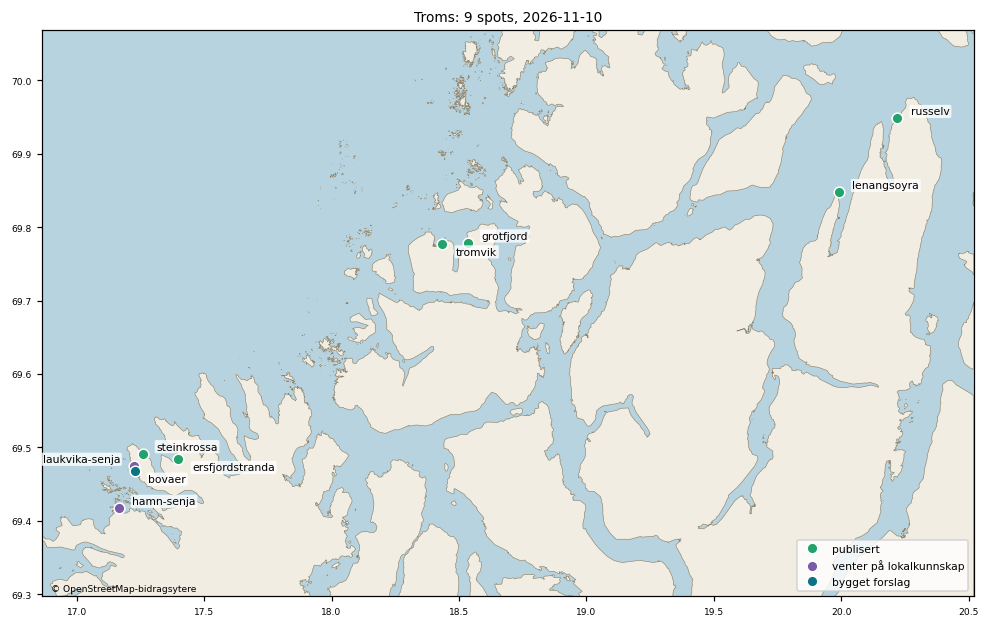
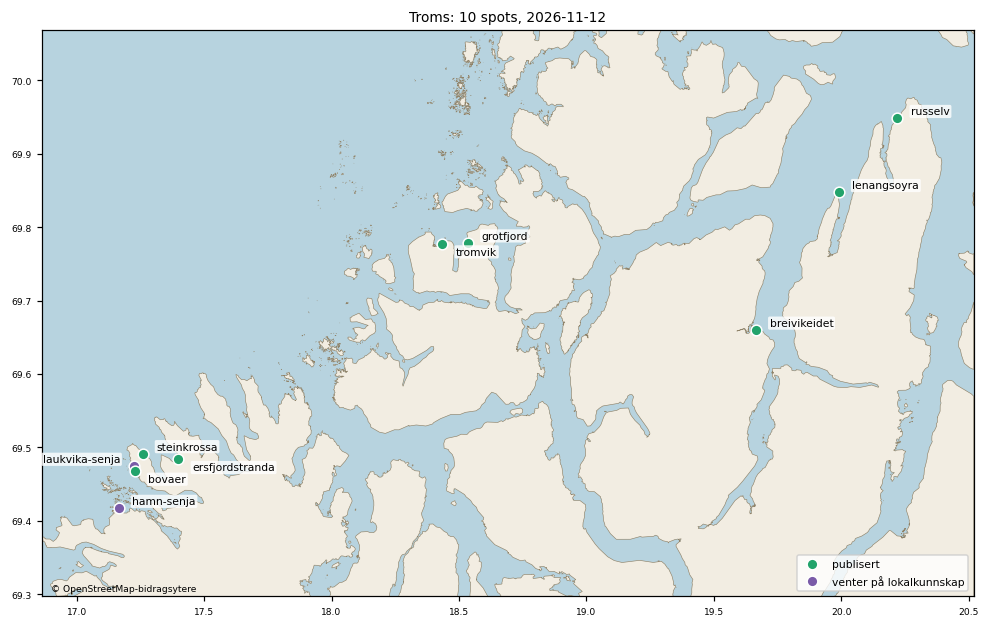
T1 Troms: breivikeidet inn i spots.json som foreløpig og ubekreftet (Theodors ja 12.11.2026)
- BarentsWatch-snittet 12.11 kl. 18:27Z: regelen fra 15.10 fant ikke
  noe punkt (krappsjø fra øst, Tp 2-3 s, i 17 av 19 timer). Punktet er
  satt til første punkt med minst 8 m dyp og data: 100 m ut (8,8 m),
  lavere sikkerhet.
- tools/godkjenn_spot.py breivikeidet: status forelopig, 0 restriksjoner
  (Sandbukta naturreservat har ikke ferdsels- eller surfeforbud).
  «Ubekreftet» står i _ubekreftet. Havpunktet er fabrikkens, uten
  offshore_longrange. Ingen exposure_override.
- Gjennomgangspakka for Troms er laget på nytt, med spotansvarligs linje
  og fire spørsmål til Theodor i troms.notater.md.

Fysikk-kontrolløren: spør Theodor (havpunkt og hopp ved overgangen
til reservesonen). Tekstfeilen den fant er rettet. Alle 16 tester og
kontrastsjekken er grønne.

diff --git a/data/kandidater/bygget/troms.md b/data/kandidater/bygget/troms.md
@@ -1,6 +1,6 @@
-# Gjennomgangspakke: Troms (9 spots)
+# Gjennomgangspakke: Troms (10 spots)
 
-Laget 2026-11-10 av tools/region_pakke.py fra spots.json (gjelder der spoten ligger inne) og fabrikkens forslag (data/kandidater/bygget/<id>.json). 6 publisert, 1 bygget forslag, 2 venter på lokalkunnskap.
+Laget 2026-11-12 av tools/region_pakke.py fra spots.json (gjelder der spoten ligger inne) og fabrikkens forslag (data/kandidater/bygget/<id>.json). 8 publisert, 2 venter på lokalkunnskap.
 
 Vindu: fri linje 150 km over GSHHS f (300 m kysttoleranse). Facing: strandnormal ±150 m langs kysten. Offshore-vind: motsatt av facing ±45° når ikke annet står. BarentsWatch-punkt: snittregelen 15.10 (første punkt utover med minst 8 m dyp og flat Hs). Tidevann: Kartverkets referansested for posisjonen. Vern: Naturbase innen 2 km, målt fra spotens posisjon der oppslaget finnes (ellers fra listepinnen, og da står det), forskriften lest på Lovdata. Sikkerhet: A = navn, strandtype, synlig bølge/formasjon og retning stemmer; B = to av fire; C = resten (bygges ikke).
 
@@ -30,6 +30,38 @@ Snittet ble hentet 10.11 kl. 11:35Z (0 til 3 km langs facing, 18 tidspunkter, hv
 - **Lavere sikkerhet:** 400 m ligger i en lomme i EMODnet (5,3 m innenfor, 7,7 m utenfor) og oppfyller regelen fra 15.10 i 2 av 9 tidspunkter med svell i vinduet (1 500 m i 4). Punktet er retningsavhengig: Hs ved 400 og 600 m er like (under 10 % forskjell) bare når Hs ved punktet er minst ca. 0,5 m, det vil si i 3 av de 9 tidspunktene. Når svellet dreier mot nordvest (fra 11.11 kl. 12Z) faller Hs ved 400 m til 0,06–0,42 m, retningen går til 321–340° (31–50° fra facing), og 600 m har 1,6–3 ganger mer.
 - Høydene [0,8, 2,0] og maks 3,5 er fabrikkens standard for strand, ukalibrert. Offshore-vinden er standard (motsatt av facing ±45°), ubekreftet.
 
+## Breivikeidet 12.11.2026 (egen liten PR, Theodors ja til å bygge den)
+
+Ny spot fra Theodor (ikke i lista 15.10): Sandbukta ved Breivikeidet, Tromsø kommune, innerst i Ullsfjorden. Theodor har bare hørt at den er bra og har ikke surfet der. Kilden er ikke navngitt, så spoten er **ubekreftet** (feltet `_ubekreftet` i spots.json) og ligger inne som `forelopig`. Spotansvarligs svar står i `troms-gjennomgang.csv` (rett: BarentsWatch-punktet).
+
+- **Posisjon:** 69.659992, 19.664974. Det er 235 m fra Theodors pinne, midt på den NNØ-vendte delen av en ca. 1,1 km lang sand- og grusstrand, 100 m fra OSM-kystlinja. Ingen bølger er synlige i flyfotoet. Sikkerhet B.
+- **Facing og vindu:** facing 17,3° (OSM 13–28°, flyfoto 14–18°). Vinduet er 20–25° (6°), det eneste med fri linje til åpent hav gjennom gapet mellom Vanna og Arnøya. 10–19° treffer Reinøya/Vanna 31–51 km ut, og 26–29° treffer Arnøya 55–64 km ut.
+- **Offshorevind:** [152, 242], standard og ubekreftet.
+- **Vern:** Sandbukta naturreservat dekker stranda og sjøen innerst i bukta. Forskriften har ikke ferdsels- eller surfeforbud, bare forbud mot motorferdsel på land.
+
+### BarentsWatch-snittet
+
+Snittet ble hentet 12.11 kl. 18:27Z (19 tidspunkter, hver 3. time fra 12.11 kl. 12Z til 14.11 kl. 18Z, `data/bw_point_search/result_2026-11-12T1827_kandidater.json`). BarentsWatch har data helt inn i bukta.
+
+| Avstand ut | EMODnet-dybde | Hs (median, min–maks) | Retning (median) |
+|---|---|---|---|
+| 0 m | 2,0 m | 0,14 m (0,07–0,22) | 81° |
+| 100 m | 8,8 m | 0,19 m (0,09–0,28) | 88° |
+| 300 m | 30,8 m | 0,24 m (0,13–0,30) | 95° |
+| 800–1 500 m | 55–79 m | 0,29–0,30 m (0,19–0,35) | 103–104° |
+
+- Svellet ute var 0,8–1,4 m fra 11–27°, men BarentsWatch viste kort krappsjø fra øst (Tp 2–3 s) i 17 av 19 timer.
+- I de to roligste timene (12.11 kl. 18Z og 13.11 kl. 00Z) var det 0,09 m fra 9° med Tp 7,5 s ved 100 m. Det er ca. 7 % av svellet ute, som da kom fra 12–18°, altså like utenfor vinduet.
+- Regelen fra 15.10 fant derfor ikke noe punkt. Velgeren prøver bare timer der svellet ute kommer fra innenfor vinduet (20–25°), og det gjaldt 12 av 19 timer. I alle de 12 var retningen ved 100 m 69–88°, altså 46–66° fra svellet ute. De to svelltimene (svell ute fra 12–18°) ble ikke prøvd.
+- Punktet ble satt til første punkt med minst 8 m dyp og data: **100 m ut (8,8 m)**, med lavere sikkerhet. Hs øker utover til ca. 800 m. Det er le bak Breivikneset for østlig krappsjø, ikke en brytesone (8,8 m er dypt vann for 3 s-bølger).
+
+### Spørsmål til Theodor
+
+1. **Havpunkt og langtidsdager:** fabrikkens havpunkt (70.3284, 20.4562) ligger 1,0 km fra Lenangsøyras, i den samme landmaskerte GFS-cellen, og spoten har ingen `offshore_longrange`. Anbefaling: bruk Lenangsøyras havpunkt og `offshore_longrange` 70.5/20.5. Det gir samme svelldata og ingen nye kall.
+2. **Vinduet er 6°, ikke 15–30°:** nye spots har ingen geometrisk grunnlinje (`data/exposure_baseline.json`), så reserven bruker vindu og skyggekurve. Hvis grunnlinjen lages senere, gir den 0,38–0,48 over 10–30°, fordi øyene regnes som smale. Anbefaling: godta 20–25° som foreløpig uten `exposure_override`. Første observasjon og BarentsWatch blir fasiten.
+3. **Vindsjø i fjorden:** med vind fra NNØ er det 31–65 km fetch, og det gir trolig 1–1,5 m med ca. 5 s, onshore. BarentsWatch tar med lokal vindsjø, men surfehøyden bruker GFS-perioden. Anbefaling: lag et forslag med før/etter som merker timer med kort periode hos BarentsWatch som vindsjø. Ingen endring nå.
+4. **Hopp ved overgangen til reservesonen (dag 4 til ca. 8):** reserven regner transfer 0,6 × eksponering 0,67–0,85, det vil si 0,40–0,51 av svellet ute. BarentsWatch viste høyst ca. 15 % (svell i vinduet) og 7 % (svell fra 12–18°). Uten vind gir svell ute 1,0 m fra 25° (9 s) 1 stjerne, 1,4 m fra 21° (12 s) 2 stjerner og 2,0 m fra 22° (12 s) 3 stjerner. Med BarentsWatch er det 0 stjerner. Valg: (i) `exposure_override`-tak på ca. 0,2–0,25, (ii) egen transfer 0,15–0,2, eller (iii) la kalibreringen lære. Ulempen med (iii) er at parene blir krappsjø fra øst. Anbefaling: (i) som foreløpig tak til det finnes en observasjon. Grunnlaget er bare én kjøring på 19 timer.
+
 ## Hva som skal til
 
 | Spot | Hva som mangler | Hvem |
@@ -56,7 +88,8 @@ Snittet ble hentet 10.11 kl. 11:35Z (0 til 3 km langs facing, 18 tidspunkter, hv
 
 | id | Navn | Region | Status | Sikkerhet | facing | Vindu | Offshore-vind | BarentsWatch-punkt |
 |---|---|---|---|---|---|---|---|---|
-| bovaer | Bøvær | Troms | bygget forslag | B | 289.8° | 251–326° | 65–155° | 69.469189, 17.217652 (400 m ut i retning 290°, 8.5 m dyp) |
+| bovaer | Bøvær | Troms | publisert | B | 289.8° | 251–326° | 65–155° | 69.469189, 17.217652 (400 m ut i retning 290°, 8.5 m dyp) |
+| breivikeidet | Breivikeidet | Troms | publisert | B | 17.3° | 20–25° | 152–242° | 69.660855, 19.665743 (100 m ut i retning 17°, 8.8 m dyp) |
 | ersfjordstranda | Ersfjordstranda | Troms | publisert | ikke sjekket | 315° | 294–320° | 90–180° | 69.485517, 17.394874 (251 m ut i retning 315°, dybde ukjent) |
 | grotfjord | Grøtfjord | Troms | publisert | ikke sjekket | 295° | 286–310° | 76–166° | 69.779773, 18.529373 (250 m ut i retning 295°, dybde ukjent) |
 | hamn-senja | Hamn (Senja) | Troms | venter på lokalkunnskap | C (forslag, ikke godkjent) | – | – | – | – |
@@ -77,14 +110,14 @@ Snittet ble hentet 10.11 kl. 11:35Z (0 til 3 km langs facing, 18 tidspunkter, hv
 
 | | Spots | Open-Meteo vektet per kjøring | per døgn (grense 10 000) | verste time (5 000) | verste minutt (600) | BarentsWatch per kjøring / døgn | met.no per kjøring | Kartverket per kjøring |
 |---|---|---|---|---|---|---|---|---|
-| i dag (publiserte) | 22 | 78 | 622 (6%) | 78 (2%) | 78 (13%) | 39 / 312 | 66 | 22 |
-| med alle 1 ventende i regionen slått på | 23 | 81 | 649 (6%) | 81 (2%) | 81 (14%) | 40 / 320 | 69 | 23 |
+| i dag (publiserte) | 27 | 95 | 759 (8%) | 95 (2%) | 95 (16%) | 44 / 352 | 81 | 27 |
+| med alle 0 ventende i regionen slått på | 27 | 95 | 759 (8%) | 95 (2%) | 95 (16%) | 44 / 352 | 81 | 27 |
 
 Open-Meteo: vekt 1,14 per punkt (16 dager), to bølgemodeller per havpunkt og ett vindpunkt per spot, 8 kjøringer per døgn; verste minutt regner alle kall i en kjøring i samme minutt. Testen fetcher/test_kallregnskap.py holder hver grense under 50 %.
 
 ## Spotene
 
-### Bøvær (`bovaer`) - bygget forslag
+### Bøvær (`bovaer`) - publisert
 
 | | |
 |---|---|
@@ -102,6 +135,25 @@ Open-Meteo: vekt 1,14 per punkt (16 dager), to bølgemodeller per havpunkt og et
 | Usikkert | offshore-vind: standard, ubekreftet (motsatt av facing ±45°)<br>barentswatch_point rettet: 400 m ut (spotansvarlig 10.11.2026: stranda ligger i le av skjæret 800-900 m ut, og regelen fra 15.10 valgte 1500 m utenfor skjæret; lavere sikkerhet) |
 
 ![bovaer](bovaer.png)
+
+### Breivikeidet (`breivikeidet`) - publisert
+
+| | |
+|---|---|
+| Posisjon | 69.659992, 19.664974 - godkjent forslag (flyfoto), spotansvarlig (agent, Theodor 10.11.2026), 2026-11-12. 235 m fra listepinnen. Sandbukta: ca. 1,1 km sand-/grusstrand innerst i bukta på vestsida av Ullsfjorden (Breivikelva-deltaet bak). Den rette delen av stranda vender mot NNØ (OSM-kystnormal 13-28°). Satt midt på den delen, ca. 100 m ut fra OSM-kystlinja (ca. 70 m fra vannkanten i flyfotoet). Ingen bølger synlige i flyfotoet; hovedtoppen er ukjent. Pinnen sto ca. 260 m ut i bukta. |
+| Facing | 17.3° |
+| Svellvindu | 20–25° |
+| Offshore-vind | 152–242° |
+| Havpunkt | 70.3284, 20.4562 (80 km ut i retning 22°) |
+| BarentsWatch-punkt | 69.660855, 19.665743 (100 m ut i retning 17°, 8.8 m dyp)<br>Snitt langs facing (data/bw_point_search/result_2026-11-12T1827_kandidater.json), første punkt med dybde ≥ 8 m og BarentsWatch-data (retting fra gjennomgangen): snitt 100m@17.3, 100 m ut, dybde 8,8 m. Lavere sikkerhet (spotansvarlig 12.11.2026): 15.10-regelen fant ikke noe punkt: velgeren prøver bare timer med svell ute fra innenfor vinduet (12 av 19), og i alle de 12 var retningen ved 100 m 69-88° (46-66° fra svellet ute). BarentsWatch viste kort krapp sjø fra øst i 17 av 19 timer (100 m: 0,12-0,28 m, Tp 2,0-2,9 s) mens svellet ute var 0,8-1,4 m fra 11-27°. I de to roligste timene (12.11 kl. 18Z og 13.11 kl. 00Z) sto det igjen 0,09 m fra 9° med Tp 7,5 s ved 100 m - ca. 7 % av svellet ute (1,2-1,26 m fra 12-18°, like utenfor vinduet). Hs øker fra 0,19 m (100 m) til 0,30 m (800 m) og flater ut der; økningen er le bak Breivikneset for østlig krappsjø, ikke brytesone (8,8 m er dypt vann for 3 s bølger). 100 m er derfor beholdt som punktet som best ligner stranda. |
+| Eksponering | vindu 5° bredt, facing 5° fra midten; ingen geometrisk grunnlinje ennå - henteren bruker vindu og skyggekurve som reserve |
+| Tidevannssted | Hammerfest (-50 min), faktor 1.02 |
+| Høyder | ideal [0.8, 2.0], maks 3.5 |
+| Vern/forbud | Sandbukta naturreservat, listepinnen ligger inne i området: bare motorferdsel på land forbudt; både Theodors pinne og posisjonen ligger inne i reservatet (sjøarealet innerst i Sandbukta er med). Lagt inn for hånd 12.11.2026 (Naturbase-oppslag fra posisjonen, ikke fra tools/kandidat_vern.py). |
+| Sikkerhet | B |
+| Usikkert | facing 17.3° ligger 3° utenfor eget svellvindu (20–25°)<br>offshore-vind: standard, ubekreftet (motsatt av facing ±45°)<br>barentswatch_point rettet: første punkt med dybde ≥ 8 m og BarentsWatch-data (100 m ut), regelen fant ingen punkt; lavere sikkerhet (spotansvarlig 12.11.2026) |
+
+![breivikeidet](breivikeidet.png)
 
 ### Ersfjordstranda (`ersfjordstranda`) - publisert
 

diff --git a/data/kandidater/bygget/troms.notater.md b/data/kandidater/bygget/troms.notater.md
@@ -22,6 +22,38 @@ Snittet ble hentet 10.11 kl. 11:35Z (0 til 3 km langs facing, 18 tidspunkter, hv
 - **Lavere sikkerhet:** 400 m ligger i en lomme i EMODnet (5,3 m innenfor, 7,7 m utenfor) og oppfyller regelen fra 15.10 i 2 av 9 tidspunkter med svell i vinduet (1 500 m i 4). Punktet er retningsavhengig: Hs ved 400 og 600 m er like (under 10 % forskjell) bare når Hs ved punktet er minst ca. 0,5 m, det vil si i 3 av de 9 tidspunktene. Når svellet dreier mot nordvest (fra 11.11 kl. 12Z) faller Hs ved 400 m til 0,06–0,42 m, retningen går til 321–340° (31–50° fra facing), og 600 m har 1,6–3 ganger mer.
 - Høydene [0,8, 2,0] og maks 3,5 er fabrikkens standard for strand, ukalibrert. Offshore-vinden er standard (motsatt av facing ±45°), ubekreftet.
 
+## Breivikeidet 12.11.2026 (egen liten PR, Theodors ja til å bygge den)
+
+Ny spot fra Theodor (ikke i lista 15.10): Sandbukta ved Breivikeidet, Tromsø kommune, innerst i Ullsfjorden. Theodor har bare hørt at den er bra og har ikke surfet der. Kilden er ikke navngitt, så spoten er **ubekreftet** (feltet `_ubekreftet` i spots.json) og ligger inne som `forelopig`. Spotansvarligs svar står i `troms-gjennomgang.csv` (rett: BarentsWatch-punktet).
+
+- **Posisjon:** 69.659992, 19.664974. Det er 235 m fra Theodors pinne, midt på den NNØ-vendte delen av en ca. 1,1 km lang sand- og grusstrand, 100 m fra OSM-kystlinja. Ingen bølger er synlige i flyfotoet. Sikkerhet B.
+- **Facing og vindu:** facing 17,3° (OSM 13–28°, flyfoto 14–18°). Vinduet er 20–25° (6°), det eneste med fri linje til åpent hav gjennom gapet mellom Vanna og Arnøya. 10–19° treffer Reinøya/Vanna 31–51 km ut, og 26–29° treffer Arnøya 55–64 km ut.
+- **Offshorevind:** [152, 242], standard og ubekreftet.
+- **Vern:** Sandbukta naturreservat dekker stranda og sjøen innerst i bukta. Forskriften har ikke ferdsels- eller surfeforbud, bare forbud mot motorferdsel på land.
+
+### BarentsWatch-snittet
+
+Snittet ble hentet 12.11 kl. 18:27Z (19 tidspunkter, hver 3. time fra 12.11 kl. 12Z til 14.11 kl. 18Z, `data/bw_point_search/result_2026-11-12T1827_kandidater.json`). BarentsWatch har data helt inn i bukta.
+
+| Avstand ut | EMODnet-dybde | Hs (median, min–maks) | Retning (median) |
+|---|---|---|---|
+| 0 m | 2,0 m | 0,14 m (0,07–0,22) | 81° |
+| 100 m | 8,8 m | 0,19 m (0,09–0,28) | 88° |
+| 300 m | 30,8 m | 0,24 m (0,13–0,30) | 95° |
+| 800–1 500 m | 55–79 m | 0,29–0,30 m (0,19–0,35) | 103–104° |
+
+- Svellet ute var 0,8–1,4 m fra 11–27°, men BarentsWatch viste kort krappsjø fra øst (Tp 2–3 s) i 17 av 19 timer.
+- I de to roligste timene (12.11 kl. 18Z og 13.11 kl. 00Z) var det 0,09 m fra 9° med Tp 7,5 s ved 100 m. Det er ca. 7 % av svellet ute, som da kom fra 12–18°, altså like utenfor vinduet.
+- Regelen fra 15.10 fant derfor ikke noe punkt. Velgeren prøver bare timer der svellet ute kommer fra innenfor vinduet (20–25°), og det gjaldt 12 av 19 timer. I alle de 12 var retningen ved 100 m 69–88°, altså 46–66° fra svellet ute. De to svelltimene (svell ute fra 12–18°) ble ikke prøvd.
+- Punktet ble satt til første punkt med minst 8 m dyp og data: **100 m ut (8,8 m)**, med lavere sikkerhet. Hs øker utover til ca. 800 m. Det er le bak Breivikneset for østlig krappsjø, ikke en brytesone (8,8 m er dypt vann for 3 s-bølger).
+
+### Spørsmål til Theodor
+
+1. **Havpunkt og langtidsdager:** fabrikkens havpunkt (70.3284, 20.4562) ligger 1,0 km fra Lenangsøyras, i den samme landmaskerte GFS-cellen, og spoten har ingen `offshore_longrange`. Anbefaling: bruk Lenangsøyras havpunkt og `offshore_longrange` 70.5/20.5. Det gir samme svelldata og ingen nye kall.
+2. **Vinduet er 6°, ikke 15–30°:** nye spots har ingen geometrisk grunnlinje (`data/exposure_baseline.json`), så reserven bruker vindu og skyggekurve. Hvis grunnlinjen lages senere, gir den 0,38–0,48 over 10–30°, fordi øyene regnes som smale. Anbefaling: godta 20–25° som foreløpig uten `exposure_override`. Første observasjon og BarentsWatch blir fasiten.
+3. **Vindsjø i fjorden:** med vind fra NNØ er det 31–65 km fetch, og det gir trolig 1–1,5 m med ca. 5 s, onshore. BarentsWatch tar med lokal vindsjø, men surfehøyden bruker GFS-perioden. Anbefaling: lag et forslag med før/etter som merker timer med kort periode hos BarentsWatch som vindsjø. Ingen endring nå.
+4. **Hopp ved overgangen til reservesonen (dag 4 til ca. 8):** reserven regner transfer 0,6 × eksponering 0,67–0,85, det vil si 0,40–0,51 av svellet ute. BarentsWatch viste høyst ca. 15 % (svell i vinduet) og 7 % (svell fra 12–18°). Uten vind gir svell ute 1,0 m fra 25° (9 s) 1 stjerne, 1,4 m fra 21° (12 s) 2 stjerner og 2,0 m fra 22° (12 s) 3 stjerner. Med BarentsWatch er det 0 stjerner. Valg: (i) `exposure_override`-tak på ca. 0,2–0,25, (ii) egen transfer 0,15–0,2, eller (iii) la kalibreringen lære. Ulempen med (iii) er at parene blir krappsjø fra øst. Anbefaling: (i) som foreløpig tak til det finnes en observasjon. Grunnlaget er bare én kjøring på 19 timer.
+
 ## Hva som skal til
 
 | Spot | Hva som mangler | Hvem |

diff --git a/STATUS.md b/STATUS.md
@@ -1,5 +1,29 @@
 # Nordsurf: status
 
+## T1 Troms: breivikeidet lagt inn som foreløpig og ubekreftet 12.11.2026 (Theodors ja, gren `region/breivikeidet`, ikke merget)
+
+Ny spot fra Theodor 12.11 (ikke i lista 15.10): Sandbukta ved Breivikeidet, Tromsø kommune, innerst i Ullsfjorden. `tools/godkjenn_spot.py breivikeidet` har lagt den inn i spots.json med status `forelopig`, `enabled` og 0 restriksjoner. Den er merket ubekreftet i `_ubekreftet`: Theodor har bare hørt at den er bra, kilden er ikke navngitt, og vekten er lav. Pakka står i `data/kandidater/bygget/troms.md` og notatene i `troms.notater.md`.
+
+- **Posisjon og geometri:** posisjonen er 69.659992, 19.664974, 235 m fra Theodors pinne, sikkerhet B. Facing 17,3°, vindu [20, 25], offshore [152, 242], høyder standard for strand.
+  - Vinduet er 6°. Det er samme type fjordgap som russelv og lenangsoyra, så 15°-regelen gjelder ikke.
+  - 10–19° og 26–29° treffer Reinøya, Vanna og Arnøya 31–64 km ut.
+- **Havpunkt:** fabrikkens 70.3284, 20.4562, uten `offshore_longrange`. Det ligger i samme landmaskerte GFS-celle som lenangsoyra og gir «–» fra ca. dag 8, ikke 0. Spørsmål til Theodor.
+- **Vern:** Sandbukta naturreservat dekker stranda og sjøen innerst i bukta. Det er ikke ferdsels- eller surfeforbud, bare forbud mot motorferdsel på land. Lagt inn for hånd i `vern.json` og `vern_forskrifter.json`.
+- **BarentsWatch** (snitt 12.11 kl. 18:27Z, kjøring 43280036362): det finnes data helt inn i bukta.
+  - Det var krappsjø fra øst (Tp 2–3 s) i 17 av 19 timer. Svell fra NNØ nådde bare inn med 0,09 m (7,5 s) i to timer, mot 1,2 m ute.
+  - Regelen fra 15.10 fant ikke noe punkt. Punktet er satt til 100 m ut (8,8 m) med `--forste-med-data 8`, lavere sikkerhet.
+- **Fysikk-kontrolløren:** SPØR THEODOR.
+  - 100 m-punktet er riktig valg.
+  - Krappsjø fra øst gir 0 stjerner fordi periodefaktoren er 0,3.
+  - Uten `offshore_longrange` blir det «–», ikke 0.
+  - En tekstfeil om velgerens timer er rettet.
+  - Nytt funn: reservesonen (dag 4 til ca. 8) regner 0,40–0,51 av svellet ute, mens BarentsWatch viste høyst ca. 15 %. Uten vind gir 1,4 m fra 21° (12 s) 2 stjerner i reserven og 0 med BarentsWatch, så det blir et hopp ved dag 4.
+  - Taket eller transfer krever Theodors ja.
+  - Første runde (12.11): `exposure_override` for vestlig svell trengs ikke, fordi geometrien gir 0,0 for 200–330°.
+- **Spørsmål til Theodor** (`troms.notater.md`): (1) havpunkt og `offshore_longrange` fra lenangsoyra, (2) vinduet på 6° mot hans 15–30°, (3) vindsjø i fjorden, (4) tak eller transfer for reservesonen.
+- **Kjent risiko:** `tools/importer_kandidater.py` og `tools/kandidat_vern.py skriv` bygger kandidater.json og vern.json på nytt og mister da oppføringene som er lagt inn for hånd.
+- **Gjenstår:** én prøvehenting når grenen pushes. Theodor ser tallene og svarer på spørsmålene før merge.
+
 ## T1 Salten: seines lagt inn som foreløpig 10.11.2026 (Theodors ja, gren `region/salten`, ikke merget)
 
 `tools/godkjenn_spot.py seines` har flyttet det bygde forslaget inn i spots.json: status `forelopig`, `enabled`, 0 restriksjoner. Grenen bygger på `region/finnmark`. Spots.json har 31 spots, 26 er slått på.
